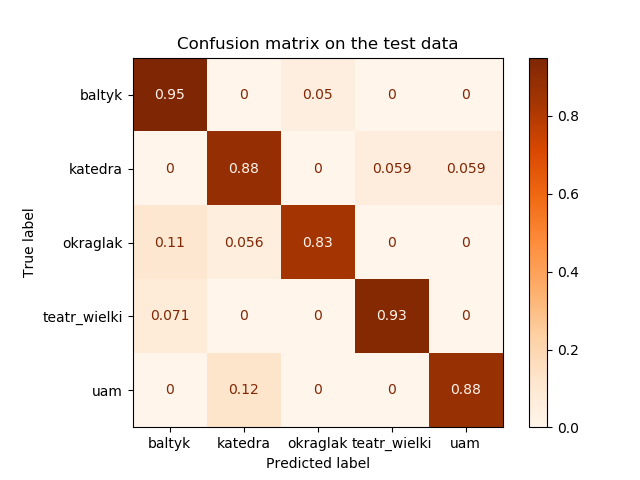
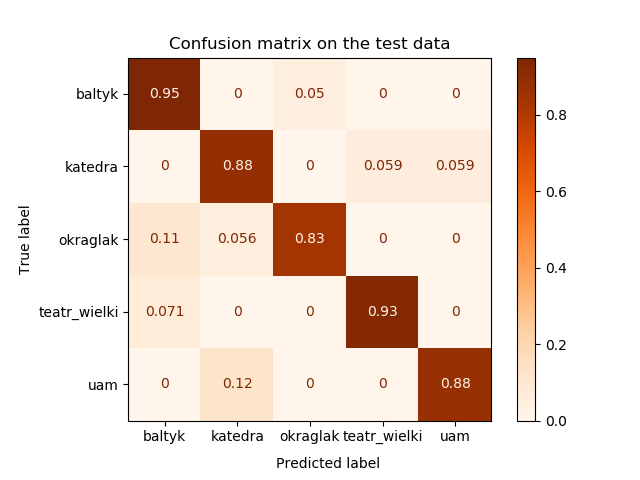
correcting the chart

diff --git a/test_classification.py b/test_classification.py
@@ -35,7 +35,9 @@ def main():
     plot_confusion_matrix(clf, test_data_transform, test_labels, 
                           display_labels=class_names, normalize='true',
                           cmap='Oranges')
-    plt.gca().set_title('Confusion matrix on the test data')
+    axis = plt.gca()
+    axis.set_title('Confusion matrix on the test data')
+    axis.xaxis.set_label_coords(0.55, -0.1)
     plt.show()
 
 if __name__ == "__main__":
